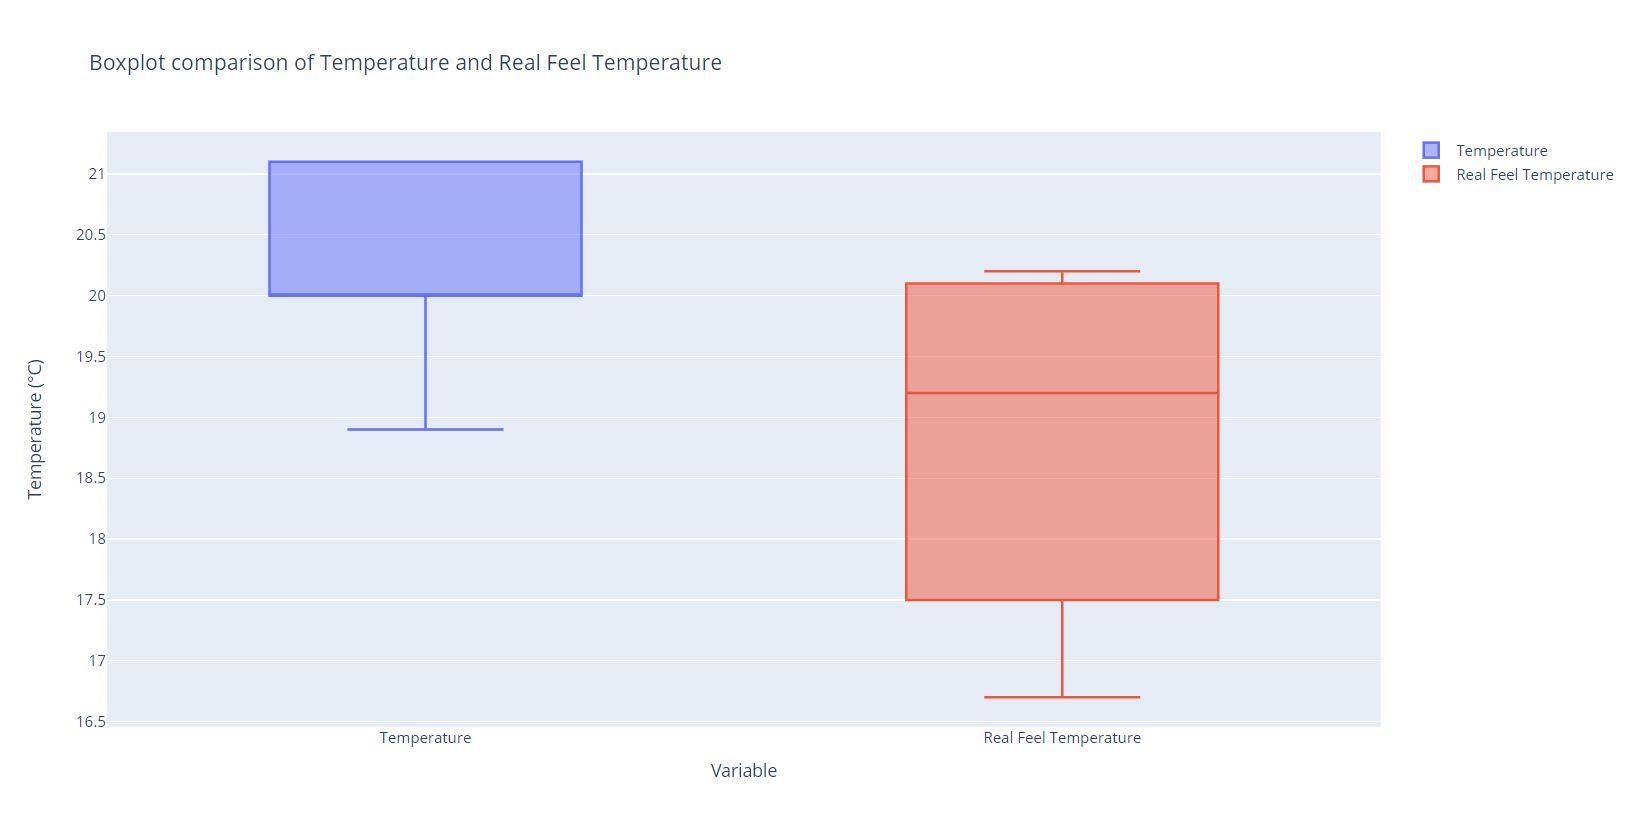
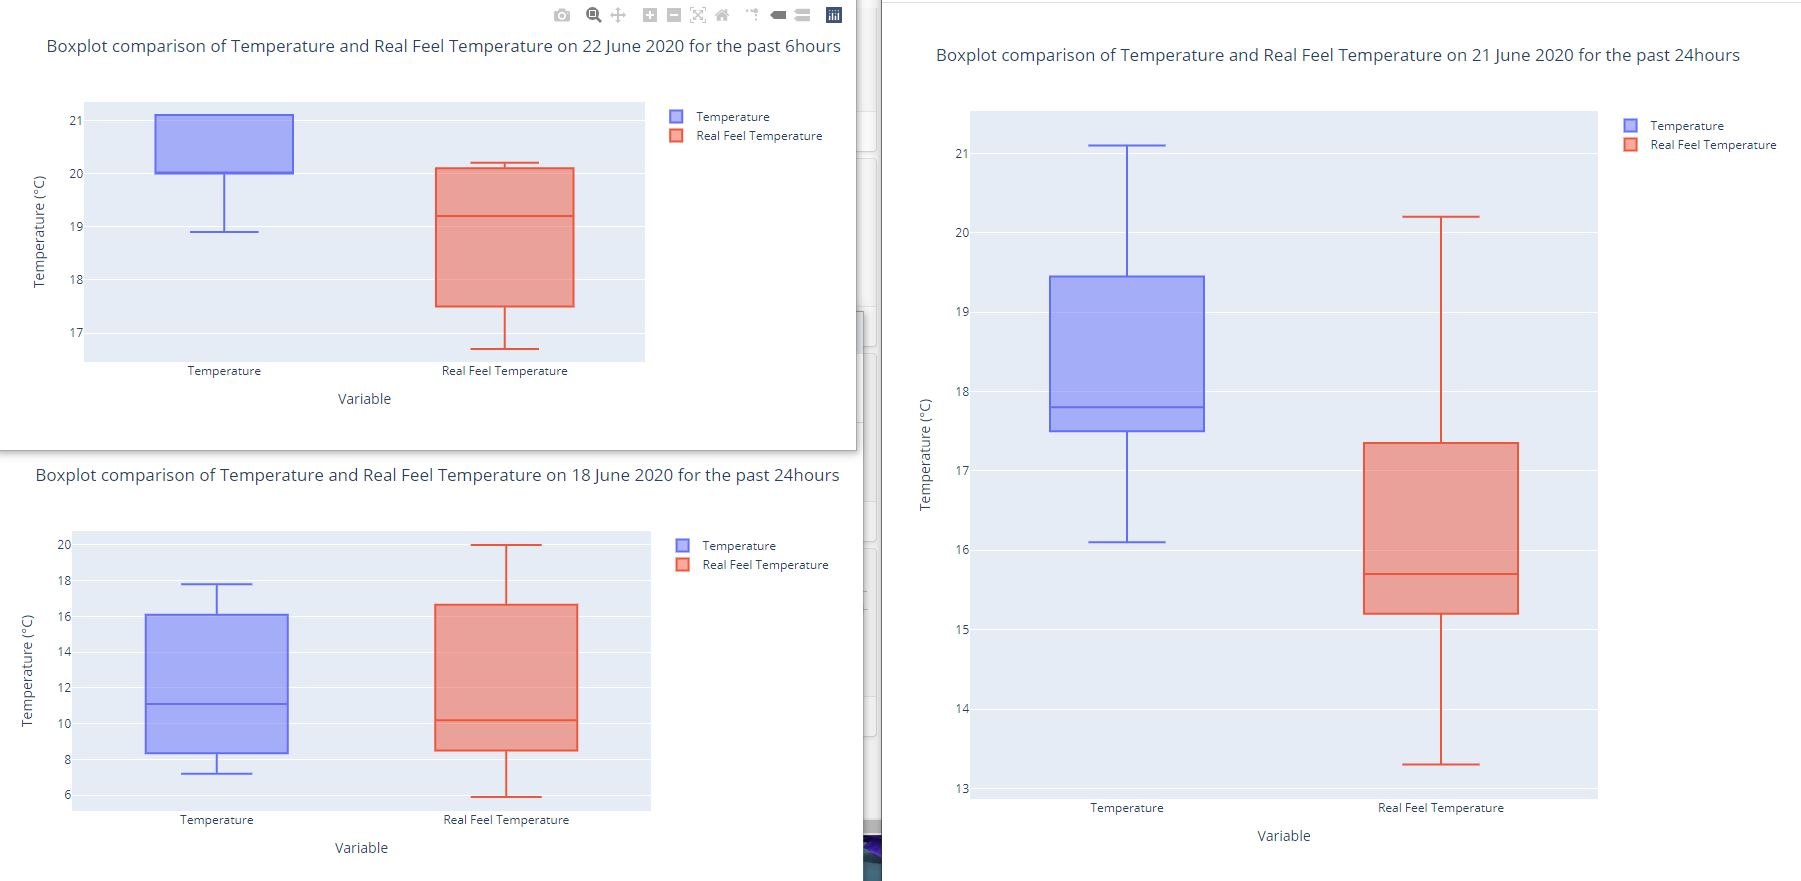
part3 project

diff --git a/my-python/p2-starter/students/part3/part3.py b/my-python/p2-starter/students/part3/part3.py
@@ -2,18 +2,9 @@ import json
 import plotly.graph_objects as go
 from datetime import datetime
 
-#data extract
-def convert_f_to_c(temp_in_farenheit):
-    """Converts an temperature from farenheit to celcius
+DEGREE_SYBMOL = u"\N{DEGREE SIGN}C"
 
-    Args:
-        temp_in_farenheit: integer representing a temperature.
-    Returns:
-        An integer representing a temperature in degrees celcius.
-    """
-    tempC = round(((temp_in_farenheit-32)/1.8 ),1)
-    return tempC
-
+#define functions
 def convert_date(iso_string):
     """Converts and ISO formatted date into a human readable format.
     
@@ -26,25 +17,39 @@ def convert_date(iso_string):
     return d.strftime('%d %B %Y')
 
 def process_weather(forecast_file):
-    """Converts raw weather data into meaningful text.
-
+    """Converts raw weather data into structured dictionary.
     Args:
         forecast_file: A string representing the file path to a file
             containing raw weather data.
     Returns:
-        A string containing the processed and formatted weather data.
+        A dictionary containing the processed and formatted weather data.
     """
+    #get filename str
+    strfile = str(forecast_file.split("_")[1])
+    strfile = strfile.split(".")[0]
+
+    #declare variables
+    output = {}
     temp = {}
     wt = []
+    dates = []
     overallTs = []
     overallRFTs = []
     temps = []
+    minOfmin = 100
+    maxOfmax = 0
     minLs = []
     maxLs = []
+    sumRain24 = 0
+    daytimeCount = 0
+    maxOfuv = 0
 
+    #extract data
     with open(forecast_file, "r", encoding='utf8') as read_file:
         data = json.load(read_file) #load file
         for obj in data:
+            date = convert_date(obj["LocalObservationDateTime"])
+
             overallT = obj["Temperature"]
             for key,value in overallT.items():
                 overallTs.append(overallT["Metric"]["Value"])
@@ -62,20 +67,44 @@ def process_weather(forecast_file):
             for key,value in temp.items():
                 for k,v in value.items():
                     mn = value["Minimum"]["Metric"]["Value"]
+                    if mn < minOfmin:
+                        minOfmin = mn
+                        groupMin = key
                     minLs.append(mn)
+
                     mx = value["Maximum"]["Metric"]["Value"]
+                    if mx > maxOfmax:
+                        maxOfmax = mx
+                        groupMax = key
                     maxLs.append(mx)
+                    
                     for i,j in v.items():
                         tmp = v["Metric"]["Value"]
                         temps.append(tmp)
-            
-        #print(overallTs)
-        #print(overallRFTs)
-        #print(minLs)
-        #print(maxLs)
-        #print(wt)
+        for p in data:
+            precip = p["PrecipitationSummary"]
+            for key,value in precip.items():
+                rain24 = precip["Past24Hours"]["Metric"]["Value"]
+                sumRain24 = sumRain24 + rain24
+
+        for d in data:
+            daytime = d["IsDayTime"]
+            if(daytime == True):
+                daytimeCount = daytimeCount + 1
         
+        for u in data:
+            uv = u["UVIndex"]
+            if uv > maxOfuv:
+                maxOfuv = uv
+
         output = {
+            "File": strfile,
+            "Date": date,
+            "DaylightHour": daytimeCount,
+            "MaxUV": maxOfuv,
+            "MinsGroup": [groupMin, minOfmin],
+            "MaxGroup": [groupMax, maxOfmax],
+            "Rain24mm": sumRain24,
             "overallTs": overallTs,
             "overallRFTs": overallRFTs,
             "Mins": minLs,
@@ -83,27 +112,66 @@ def process_weather(forecast_file):
             "WeatherText": ['Light rain','Sunny'],
             "WeatherFreq": [lr,s]
         }
-
     return output
 
-if __name__ == "__main__":
-    print(process_weather("data/historical_6hours.json"))
+def summarise_weather(process_dict):
+    """Summarise the dictionary of data into meaningful text.
+    Args:
+        process_dict: A dictionary of data extracted and formatted with process_weather function.
+    Returns:
+        A meaningful summary on the data dictionary.
+    """
+    #declare
+    summary = ""
 
-#plotting
-#boxplot
-df1 = process_weather("data/historical_6hours.json")
-fig1a = go.Figure()
-fig1a.add_trace(go.Box(y=df1['overallTs'], name = "Temperature"))
-fig1a.add_trace(go.Box(y=df1['overallRFTs'], name = "Real Feel Temperature"))
-fig1a.update_layout(title='Boxplot comparison of Temperature and Real Feel Temperature',
+    mingroup = process_dict['MinsGroup'][0]
+    maxgroup = process_dict['MaxGroup'][0]
+
+    #summarise
+    summary += (f"----------------------------- {process_dict['Date']} -----------------------------\n")
+    summary += (f"------------------- Summary for the past {process_dict['File']} ------------------- \n")
+    summary += (f"Minimum temperature of {process_dict['MinsGroup'][1]}{DEGREE_SYBMOL} occurred in the {process_dict['MinsGroup'][0]}. \n")
+    summary += (f"Maximum temperature of {process_dict['MaxGroup'][1]}{DEGREE_SYBMOL} occurred in the {process_dict['MaxGroup'][0]}. \n")
+    summary += (f"The amount of precipitation that fell in the past {process_dict['File']} is {process_dict['Rain24mm']} mm. \n")
+    summary += (f"The number of daylight hours in the past {process_dict['File']} is {process_dict['DaylightHour']} hours. \n")
+    summary += (f"The maximum UV index for the past {process_dict['File']} is {process_dict['MaxUV']}. \n")
+    summary += ("\n")
+    summary += (f"------------------------------- (>^.^)>^ -------------------------------\n")
+
+    return summary
+
+
+# if __name__ == "__main__":
+#     print(process_weather("data/historical_24hours_a.json"))
+
+def plot_weather(process_dict):
+    #plotting
+    #boxplot
+    fig1a = go.Figure()
+    fig1a.add_trace(go.Box(y=process_dict['overallTs'], name = "Temperature"))
+    fig1a.add_trace(go.Box(y=process_dict['overallRFTs'], name = "Real Feel Temperature"))
+    fig1a.update_layout(title=f"Boxplot comparison of Temperature and Real Feel Temperature on {process_dict['Date']} for the past {process_dict['File']}",
                    xaxis_title='Variable',
                    yaxis_title='Temperature (°C)')        
-fig1a.show()
+    fig1a.show()
 
-#bar graph
-fig1b = go.Figure()
-fig1b.add_trace(go.Bar(x = df1['WeatherText'], y=df1['WeatherFreq'], name = "Weather"))
-fig1b.update_layout(title='Frequency comparison of WeatherText',
+    #bar graph
+    fig1b = go.Figure()
+    fig1b.add_trace(go.Bar(x = process_dict['WeatherText'], y=process_dict['WeatherFreq'], name = "Weather"))
+    fig1b.update_layout(title=f"Frequency comparison of WeatherText on {process_dict['Date']} for the past {process_dict['File']}",
                    xaxis_title='WeatherText Category',
                    yaxis_title='Count')        
-fig1b.show()
+    fig1b.show()
+
+
+with open("historical_6hours_summary.txt", "w", encoding='utf8') as write_file:
+    write_file.write(summarise_weather(process_weather("data/historical_6hours.json")))
+plot_weather(process_weather("data/historical_6hours.json"))
+
+with open("historical_24hours_a_summary.txt", "w", encoding='utf8') as write_file:
+    write_file.write(summarise_weather(process_weather("data/historical_24hours_a.json")))
+plot_weather(process_weather("data/historical_24hours_a.json"))
+
+with open("historical_24hours_b_summary.txt", "w", encoding='utf8') as write_file:
+    write_file.write(summarise_weather(process_weather("data/historical_24hours_b.json")))
+plot_weather(process_weather("data/historical_24hours_b.json"))
